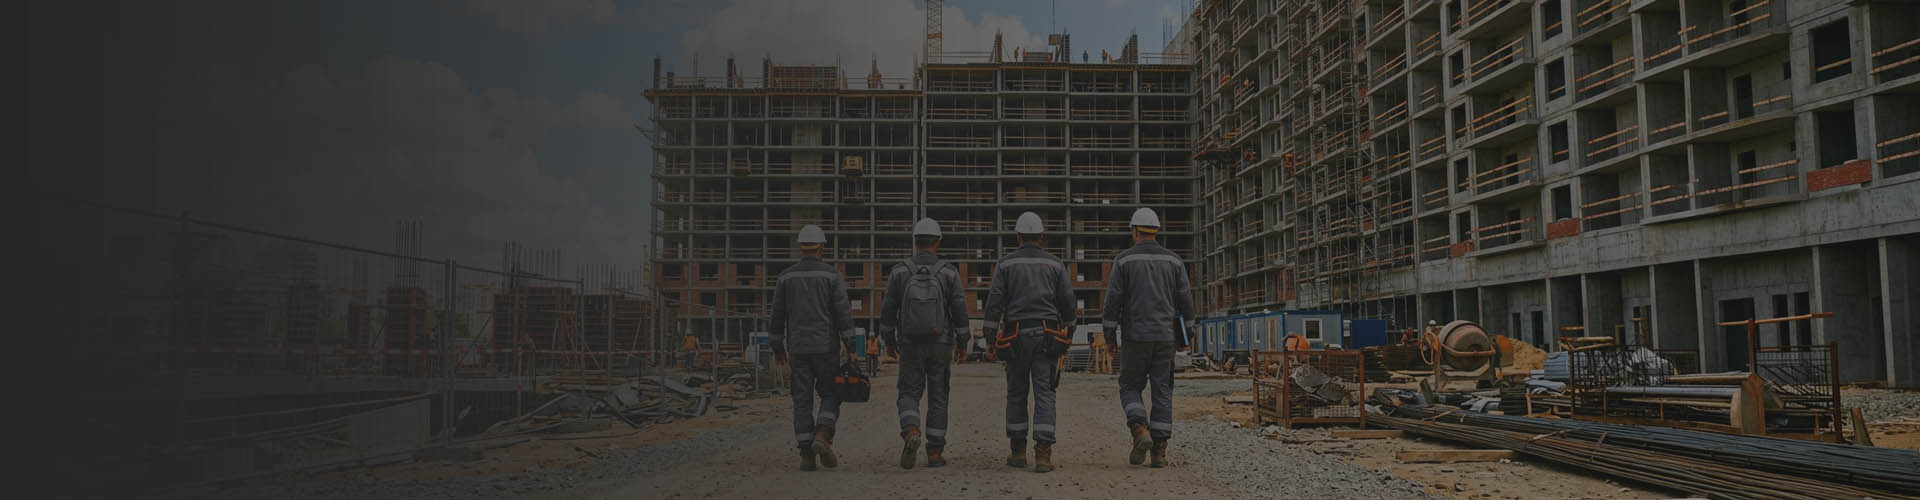
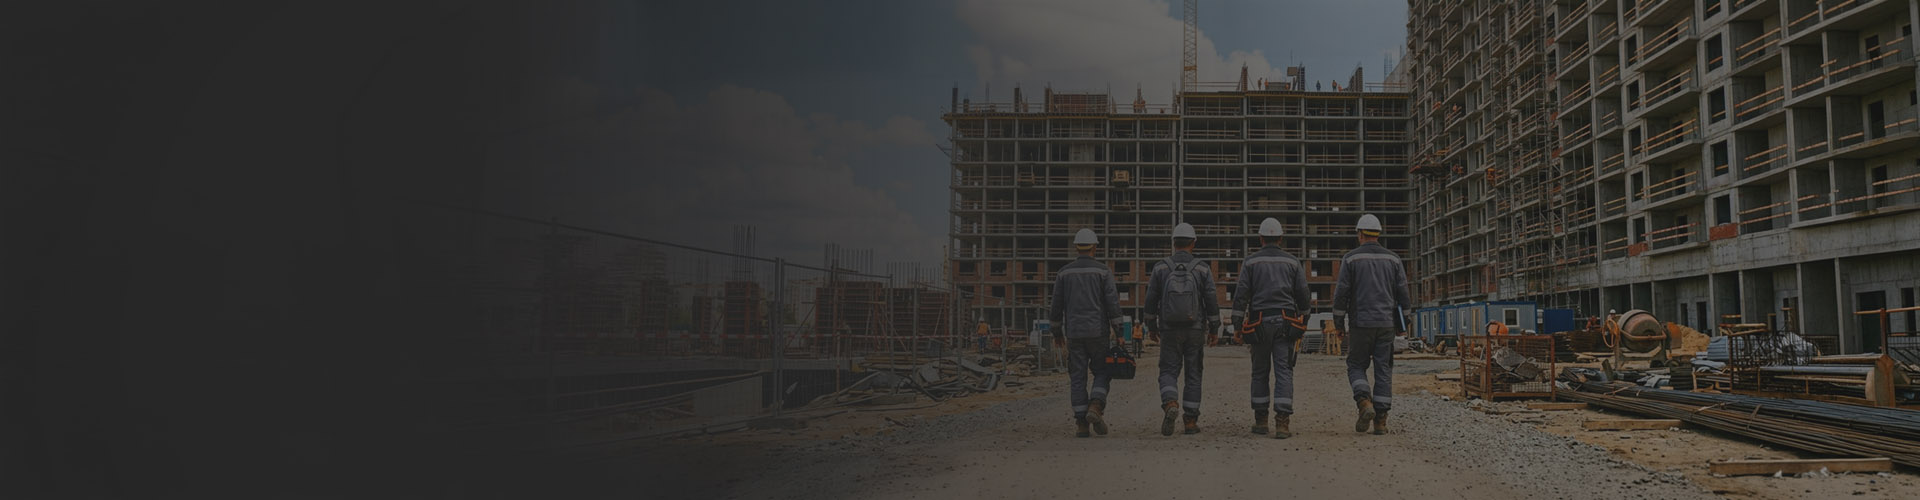
home2: clareia overlay da foto "Como Atuamos" (~10%) + nova imagem (?v=2)
- overlay: .94/.86/.70 -> .84/.76/.60 (foto mais visível)
- imagem equipe-obra.jpg atualizada; ?v=2 fura o cache do navegador

diff --git a/public_html/assets/css/style.css b/public_html/assets/css/style.css
@@ -1000,8 +1000,8 @@ strong {
    Mais escuro à esquerda (onde fica o texto) e mais aberto à direita. */
 .home-process.home-process--photo {
     background:
-        linear-gradient(100deg, rgba(24, 25, 28, .94) 0%, rgba(24, 25, 28, .86) 45%, rgba(31, 41, 55, .7) 100%),
-        url('/assets/images/equipe-obra.jpg') center / cover no-repeat;
+        linear-gradient(100deg, rgba(24, 25, 28, .84) 0%, rgba(24, 25, 28, .76) 45%, rgba(31, 41, 55, .6) 100%),
+        url('/assets/images/equipe-obra.jpg?v=2') center / cover no-repeat;
 }
 
 .home-process h2 {
